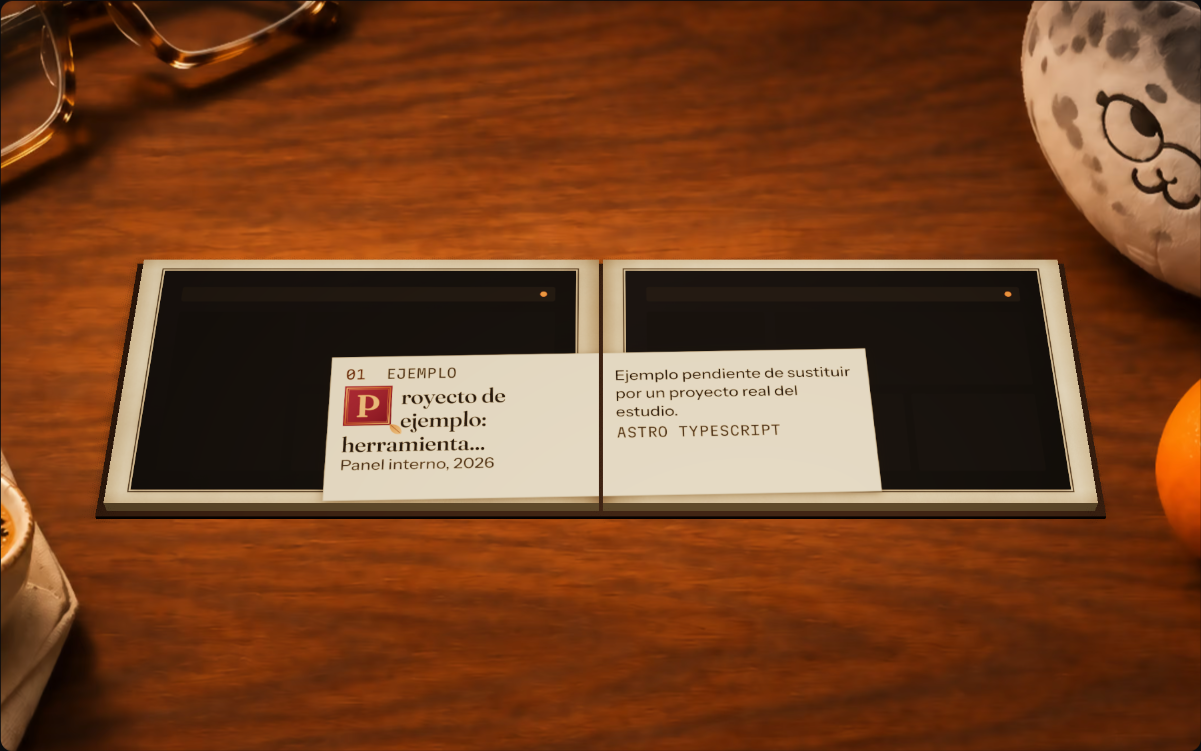
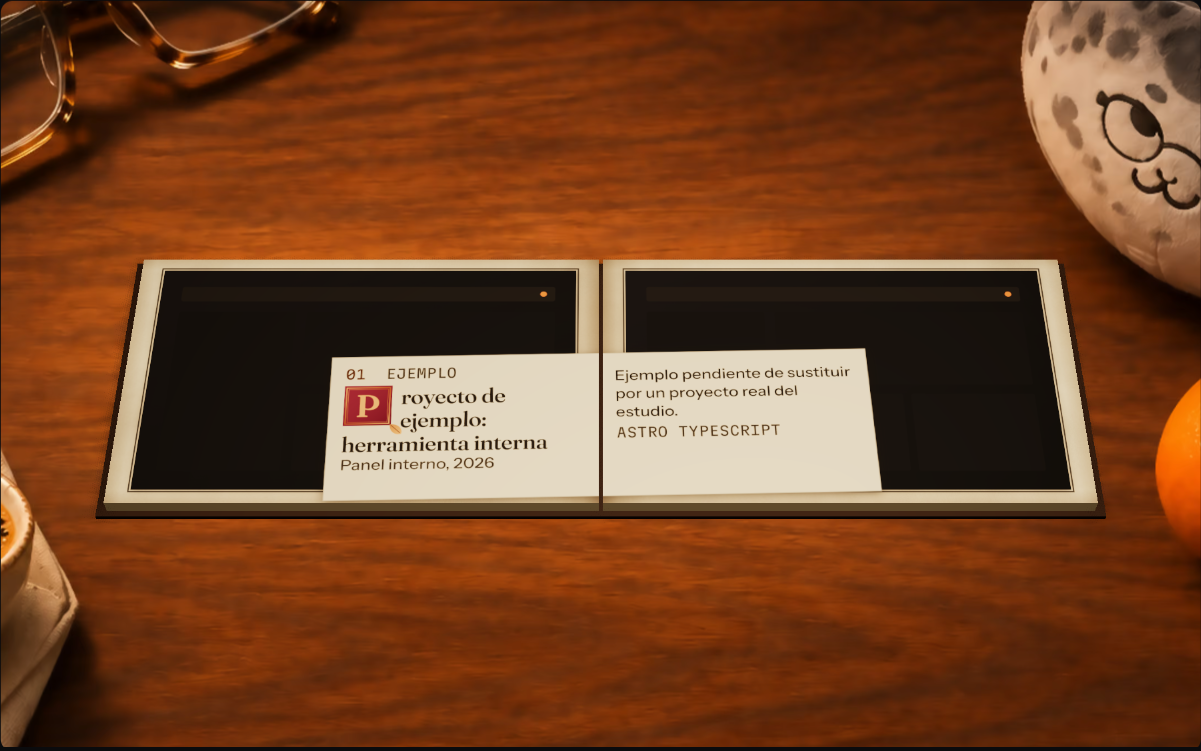
Show the finished project spreads and their phone cards

Changed region(s): [[0.0308, 0.98, 1.0, 1.0], [0.4005, 0.5819, 0.4621, 0.6125]]

diff --git a/pliegos/index.html b/pliegos/index.html
@@ -20,8 +20,12 @@ img{display:block;width:100%;height:auto;border-radius:8px;border:1px solid #2A2
 figcaption{font-size:.9rem;color:#B9B0A6;margin-top:.4rem}
 </style>
 <body><main>
-<h1>Pliegos de proyecto (en curso)</h1>
-<p>Primera prueba: la primera pantalla del proyecto a la izquierda, el clip a la derecha (aquí aún sin imagen real) y la ficha cruzando el pliegue. Para que el texto no baje de 12 px con la cámara inclinada, la ficha ocupa cerca de un tercio de cada pantalla, más de lo que imaginábamos como "pequeña". El título ya no se cortará con puntos suspensivos. <a href="../">Volver</a>.</p>
-<h2>Escritorio, 1440 × 900</h2><div class="grid">
-<figure><a href="project-spread-1440x900.png"><img src="project-spread-1440x900.png" alt="Un pliego de proyecto con la ficha sobre el pliegue." width="1201" height="751" loading="lazy"></a><figcaption>La ficha a tamaño legible.</figcaption></figure>
+<h1>Pliegos de proyecto</h1>
+<p>Cada proyecto abierto ocupa un pliego: su primera pantalla a la izquierda, su clip a la derecha (aquí los ejemplos aún no tienen imagen real) y la ficha cruzando el pliegue. El clip se recorta alrededor de la ficha, así que se lee también mientras suena el vídeo. Para que el texto no baje de 12 px con la cámara inclinada, la ficha es más grande de lo que imaginábamos; el título se ajusta entero, sin puntos suspensivos. Los títulos reales (dos o tres palabras) la harán más baja. <a href="../">Volver</a>.</p>
+<h2>El libro</h2><div class="grid">
+<figure><a href="project-spread-1440x900.png"><img src="project-spread-1440x900.png" alt="Un pliego de proyecto en el libro, 1440 por 900." width="1201" height="751" loading="lazy"></a><figcaption>1440 × 900.</figcaption></figure>
+<figure><a href="project-spread-1920x1200.png"><img src="project-spread-1920x1200.png" alt="Un pliego de proyecto en el libro, 1920 por 1200." width="1201" height="751" loading="lazy"></a><figcaption>1920 × 1200.</figcaption></figure>
+</div><h2>El teléfono, 412 × 823: dos tarjetas por proyecto</h2><div class="grid phones">
+<figure><a href="deck-still-412x823.png"><img src="deck-still-412x823.png" alt="Primera tarjeta: la primera pantalla del proyecto." width="412" height="823" loading="lazy"></a><figcaption>1: la primera pantalla.</figcaption></figure>
+<figure><a href="deck-motion-412x823.png"><img src="deck-motion-412x823.png" alt="Segunda tarjeta: el clip con la ficha debajo." width="412" height="823" loading="lazy"></a><figcaption>2: el clip, con la ficha al pie.</figcaption></figure>
 </div></main></body></html>

diff --git a/index.html b/index.html
@@ -7,5 +7,5 @@
 <title>Mandarina: previews</title>
 <style>body{margin:0;min-height:100vh;display:grid;place-items:center;background:#0B0B0D;color:#EDE6DD;font:17px/1.6 system-ui,sans-serif}a{color:#EE8A3C}main{padding:24px;max-width:36rem}</style>
 </head>
-<body><main><h1>Mandarina</h1><p>Vista previa del sitio: <a href="preview/es/">español</a> o <a href="preview/en/">English</a>.</p><p>Tablero de decisiones: <a href="signature/">signature board</a>.</p><p>Las tres rutas del héroe, animadas: <a href="routes/">routes</a>.</p><p>Arte del escritorio: <a href="lookdev/">look development</a>.</p><p>Libro de cuentos (prototipo de movimiento, cámara y zoom): <a href="storybook/">abrir</a>.</p><p>Prueba del libro 3D: <a href="spike/">abrir</a>, o <a href="spike/?bench=1">medir en este dispositivo</a> (30 s).</p><p>Servicios del prototipo, capturas: <a href="servicios/">ver</a>.</p><p>Inicio del prototipo, capturas: <a href="inicio/">ver</a>.</p><p>Visión 3D (tres momentos para elegir): <a href="vision/">abrir</a>.</p><p>Proyectos, clips del catálogo: <a href="proyectos/">ver</a>.</p><p>Acceso y Catálogo del prototipo, capturas: <a href="acceso-catalogo/">ver</a>.</p><p>El escritorio bajo el libro: <a href="escritorio/">ver</a>.</p><p>Pliegos de proyecto, en curso: <a href="pliegos/">ver</a>.</p></main></body>
+<body><main><h1>Mandarina</h1><p>Vista previa del sitio: <a href="preview/es/">español</a> o <a href="preview/en/">English</a>.</p><p>Tablero de decisiones: <a href="signature/">signature board</a>.</p><p>Las tres rutas del héroe, animadas: <a href="routes/">routes</a>.</p><p>Arte del escritorio: <a href="lookdev/">look development</a>.</p><p>Libro de cuentos (prototipo de movimiento, cámara y zoom): <a href="storybook/">abrir</a>.</p><p>Prueba del libro 3D: <a href="spike/">abrir</a>, o <a href="spike/?bench=1">medir en este dispositivo</a> (30 s).</p><p>Servicios del prototipo, capturas: <a href="servicios/">ver</a>.</p><p>Inicio del prototipo, capturas: <a href="inicio/">ver</a>.</p><p>Visión 3D (tres momentos para elegir): <a href="vision/">abrir</a>.</p><p>Proyectos, clips del catálogo: <a href="proyectos/">ver</a>.</p><p>Acceso y Catálogo del prototipo, capturas: <a href="acceso-catalogo/">ver</a>.</p><p>El escritorio bajo el libro: <a href="escritorio/">ver</a>.</p><p>Pliegos de proyecto: <a href="pliegos/">ver</a>.</p></main></body>
 </html>
